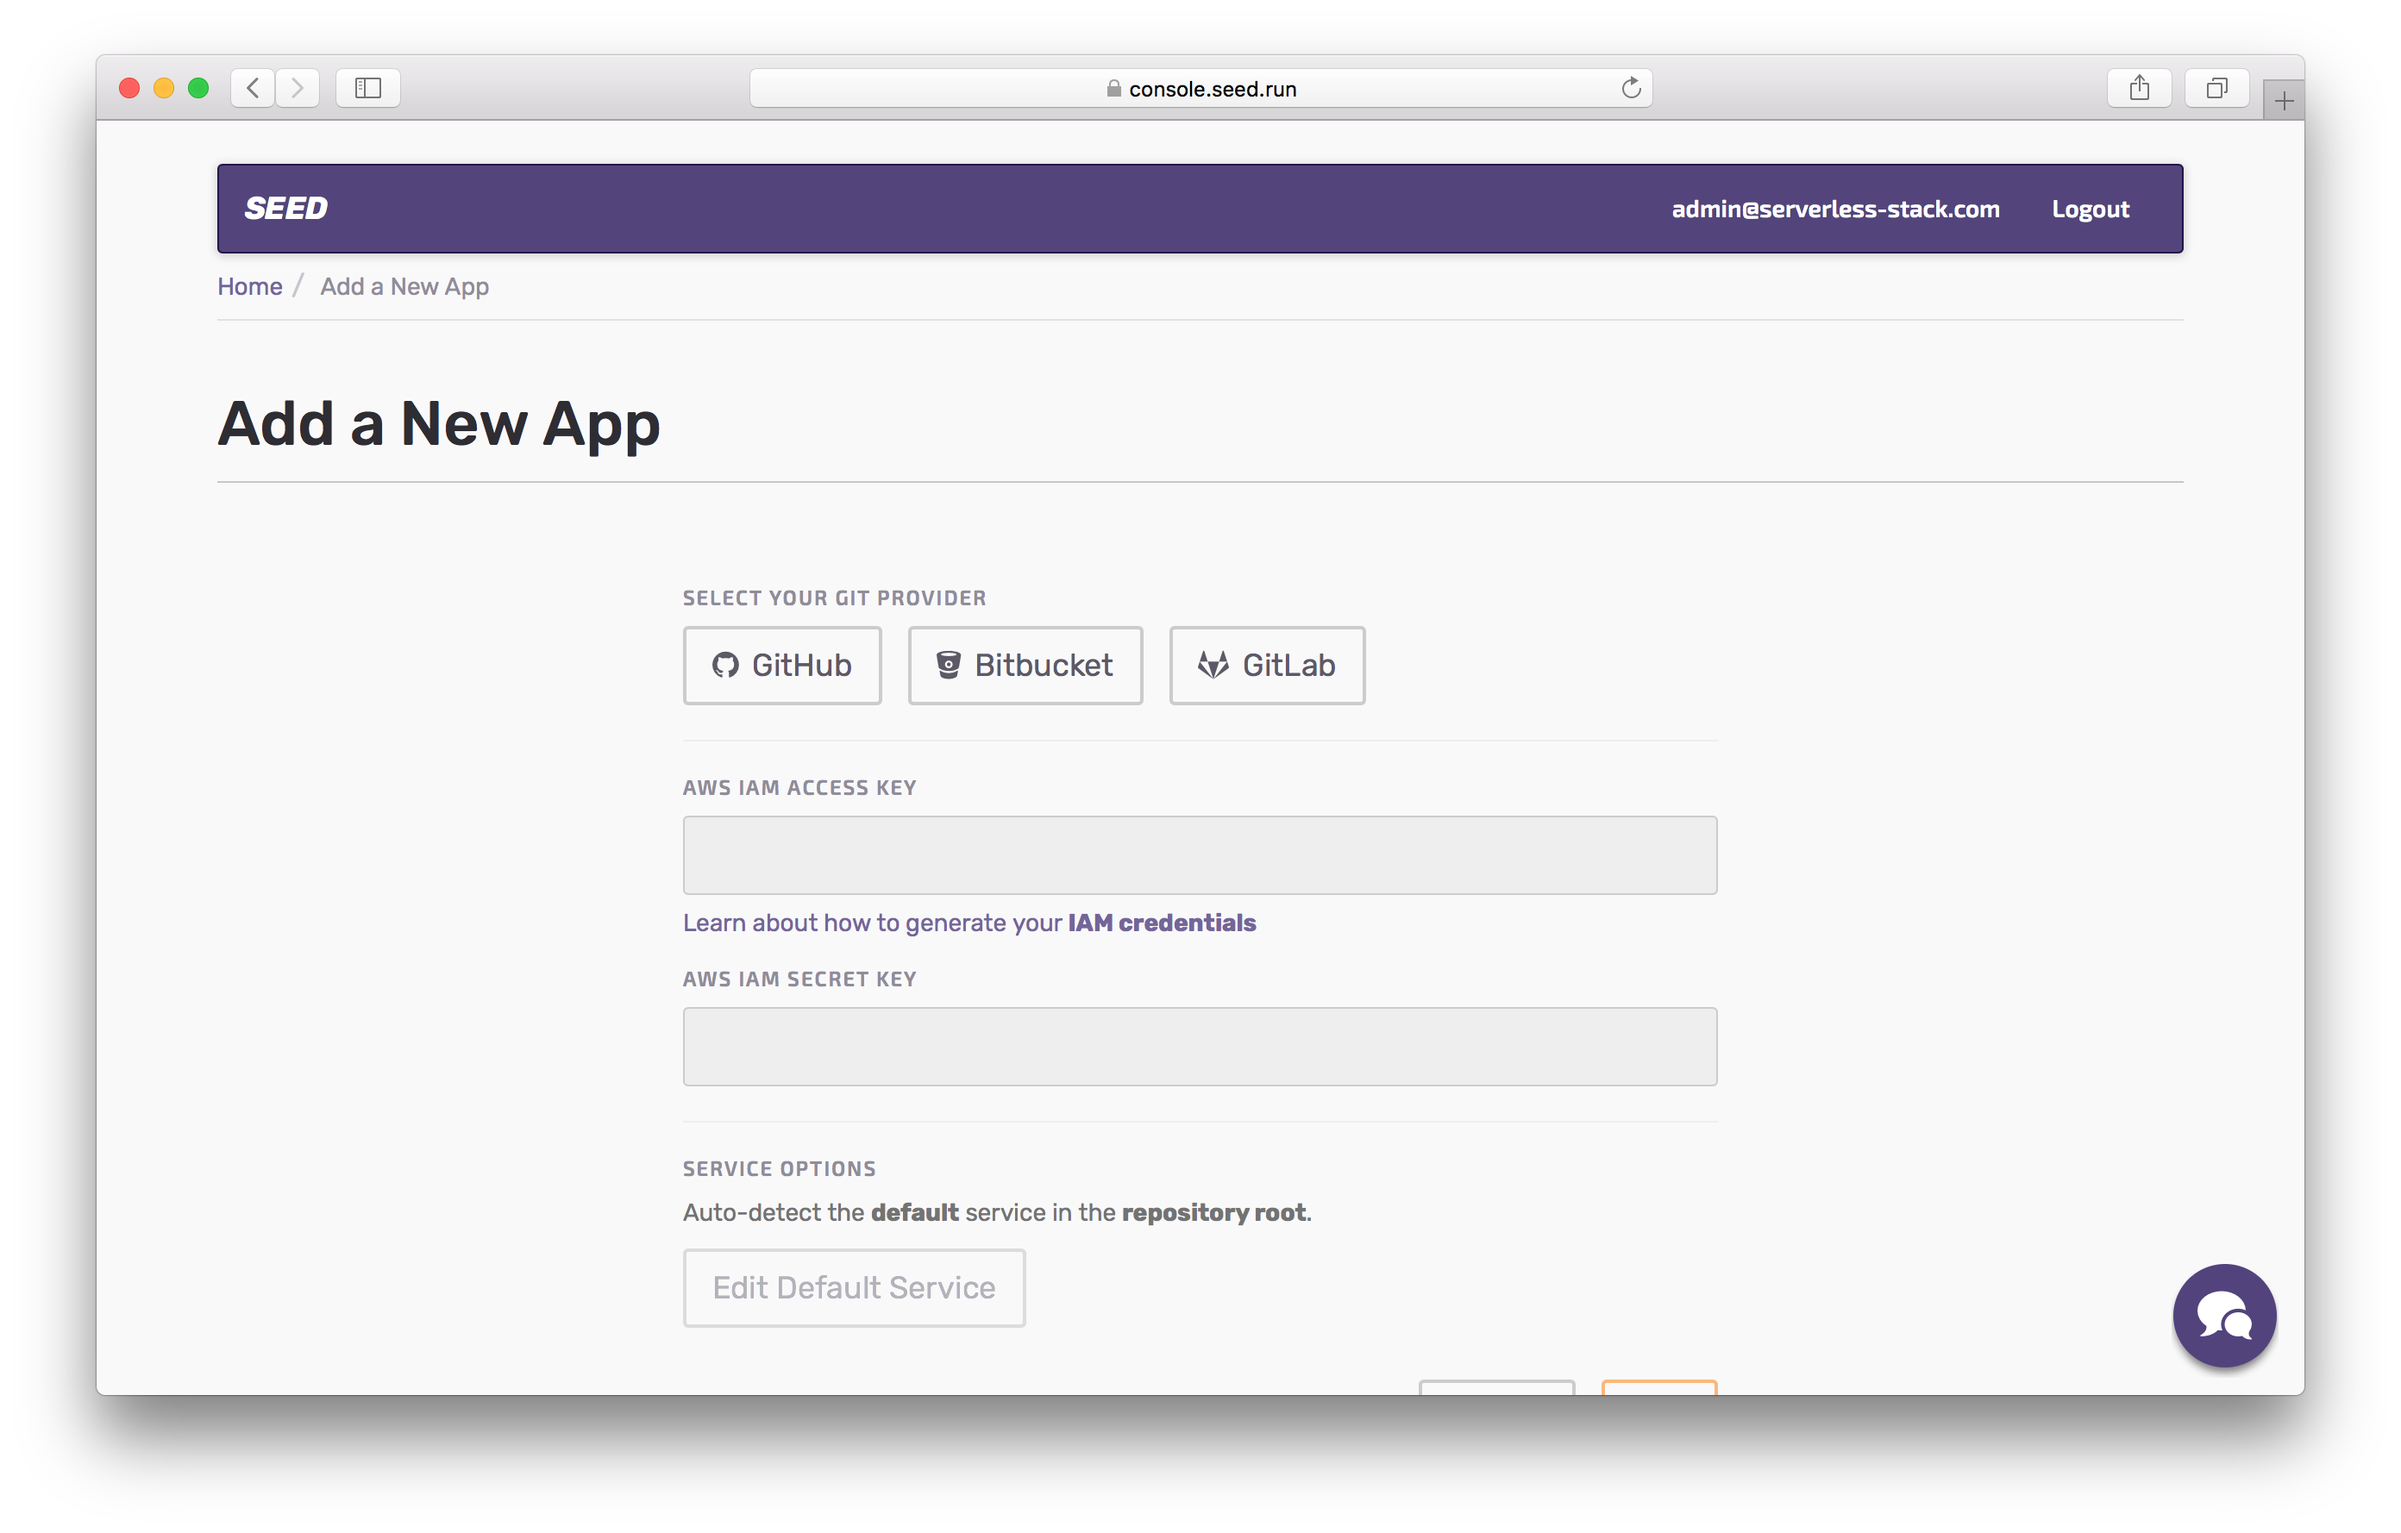
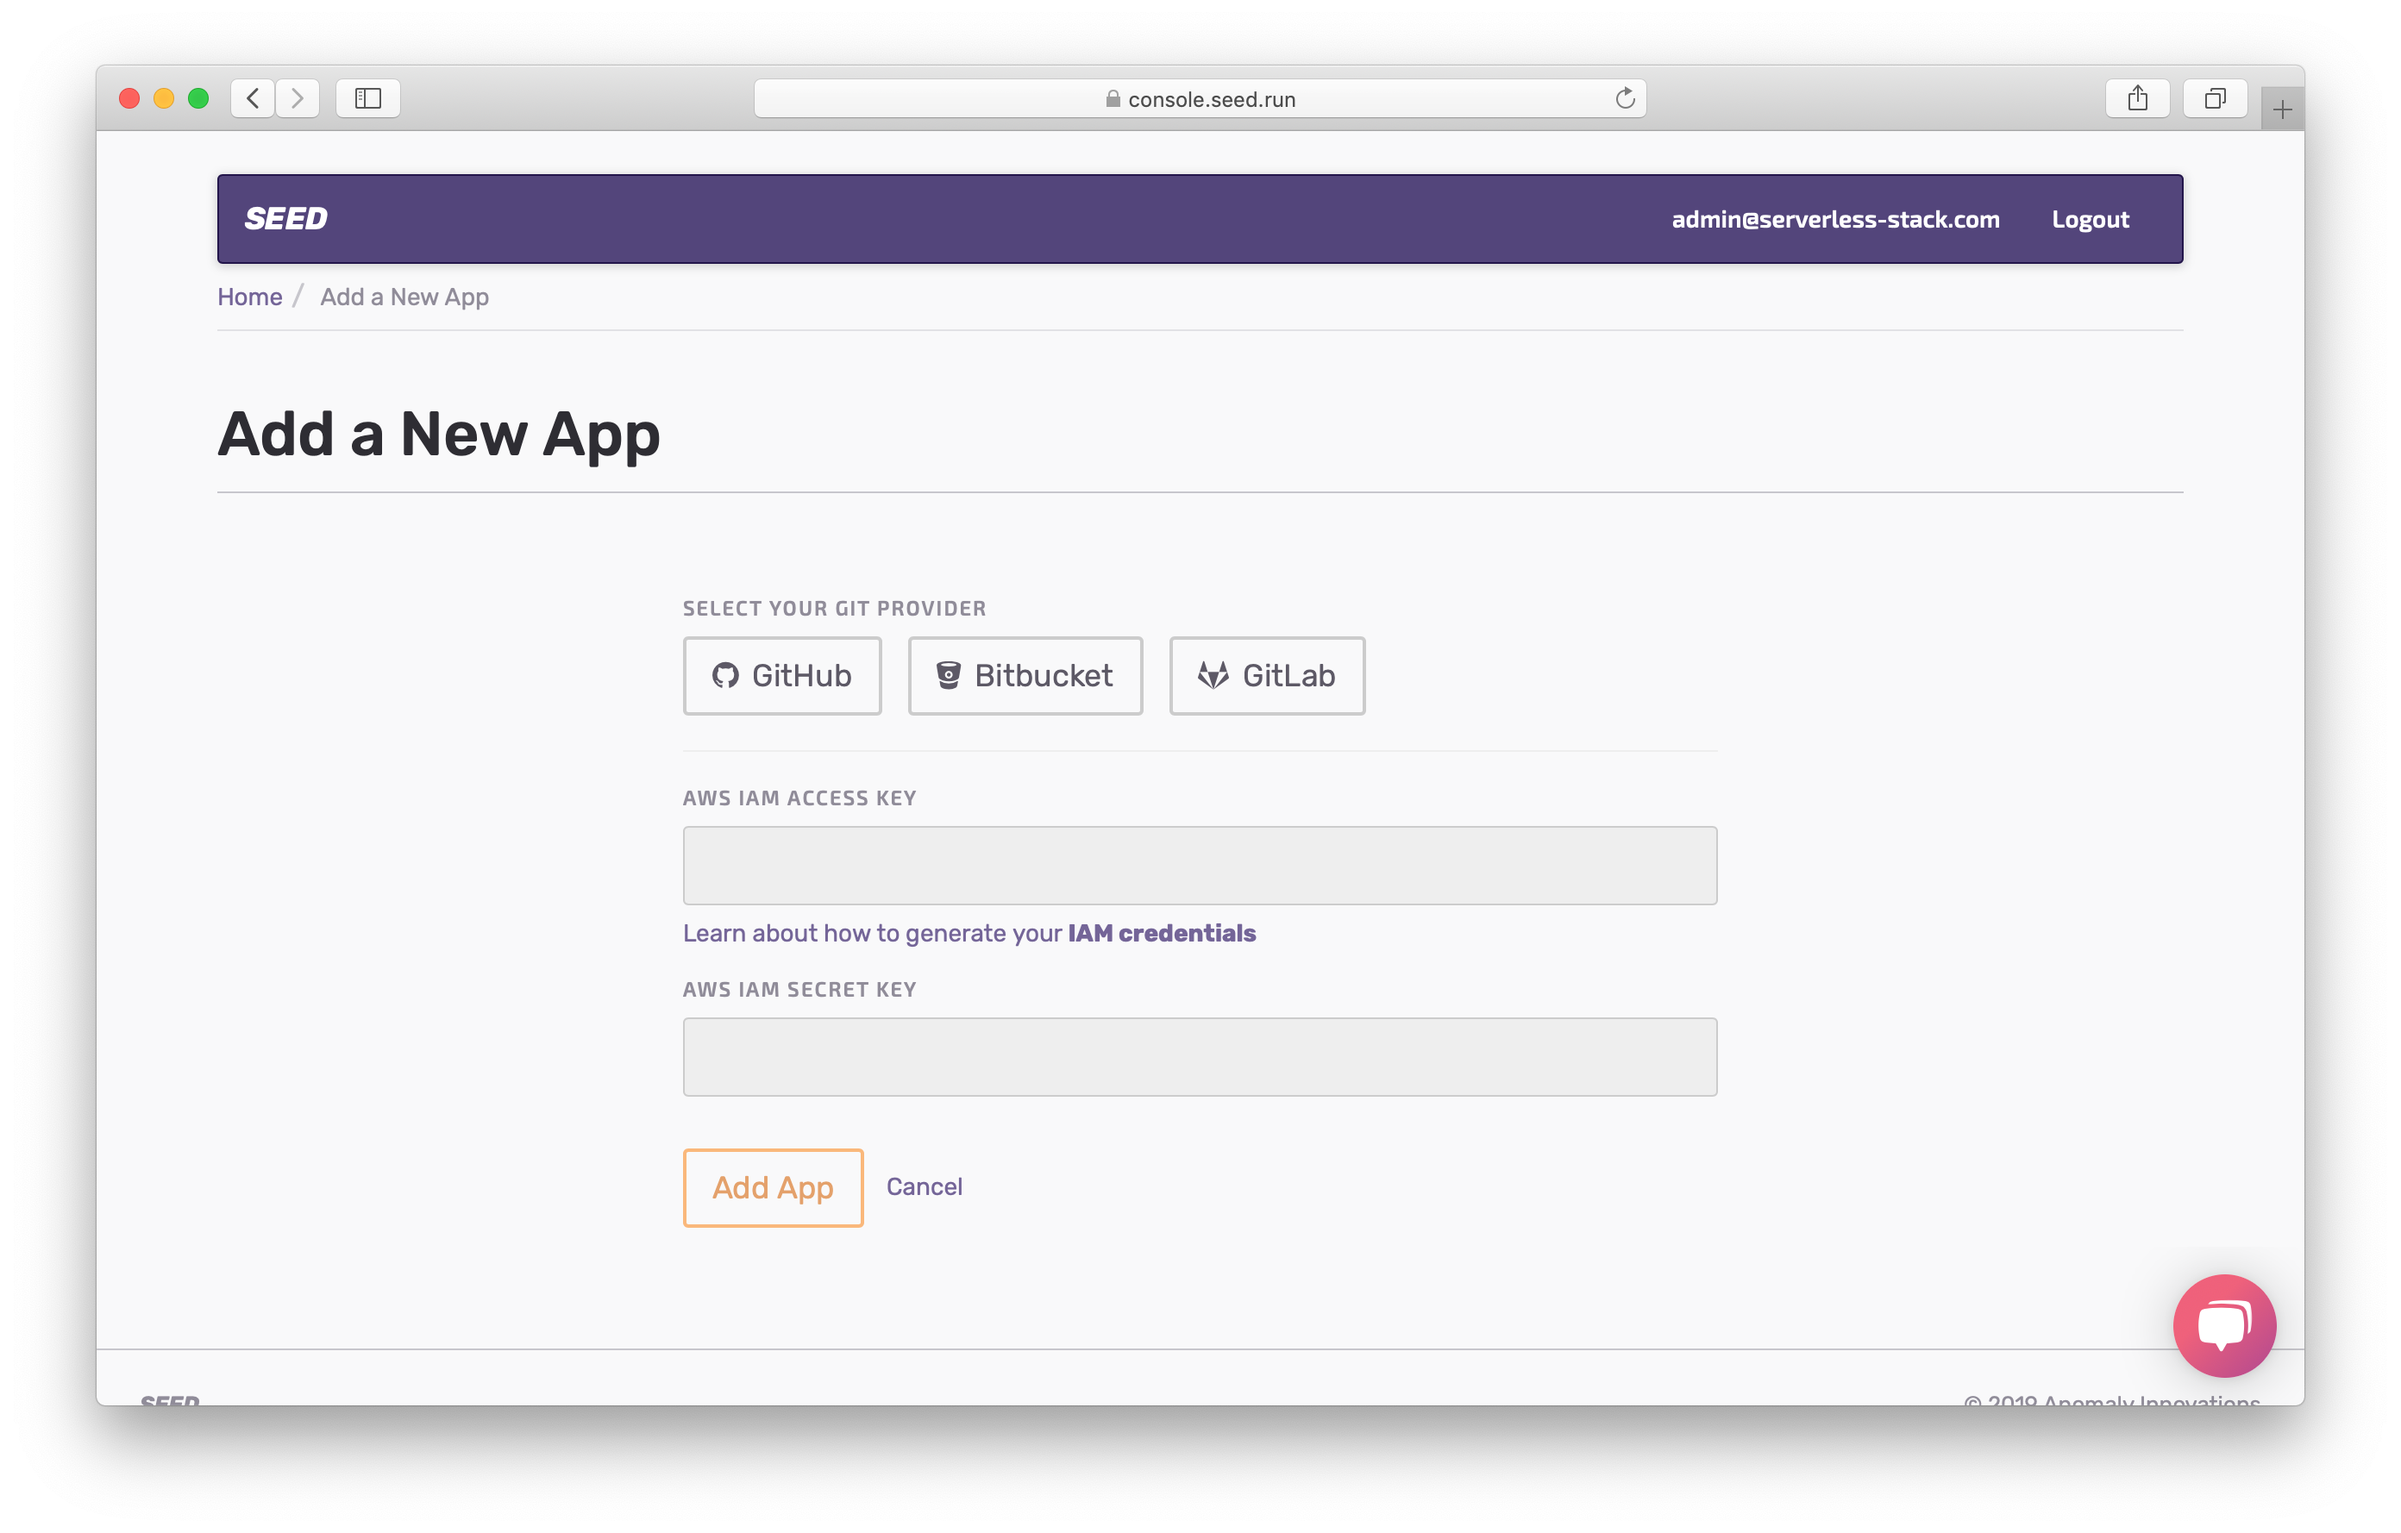
Updating add app for Seed

diff --git a/_chapters/setting-up-your-project-on-seed.md b/_chapters/setting-up-your-project-on-seed.md
@@ -21,7 +21,11 @@ Now to add your project, select **GitHub** as your git provider. You'll be asked
 
 ![Select Git provider screenshot](/assets/part2/select-git-provider.png)
 
-Select the repo we've been using so far.
+Select the repo we've been using so far. Seed will then pull up the `serverless.yml` from your project root. Hit **Add the service** to confirm this.
+
+![Serverless.yml detected screenshot](/assets/part2/serverless-yml-detected.png)
+
+Note that, if your `serverless.yml` is not in your project root, you will need to change the path.
 
 Seed deploys to your AWS account on your behalf. You should create a separate IAM user with exact permissions that your project needs. You can read more about this [here](https://seed.run/docs/customizing-your-iam-policy). But for now we'll simply use the one we've used in this tutorial.
 
@@ -39,9 +43,9 @@ aws_access_key_id = YOUR_IAM_ACCESS_KEY
 aws_secret_access_key = YOUR_IAM_SECRET_KEY
 ```
 
-Fill these in and click **Add**.
+Fill these in and click **Add App**.
 
-![Select GitHub repo screenshot](/assets/part2/select-github-repo.png)
+![Add AWS IAM credentials screenshot](/assets/part2/add-aws-iam-credentials.png)
 
 Click on your newly created app.
 
